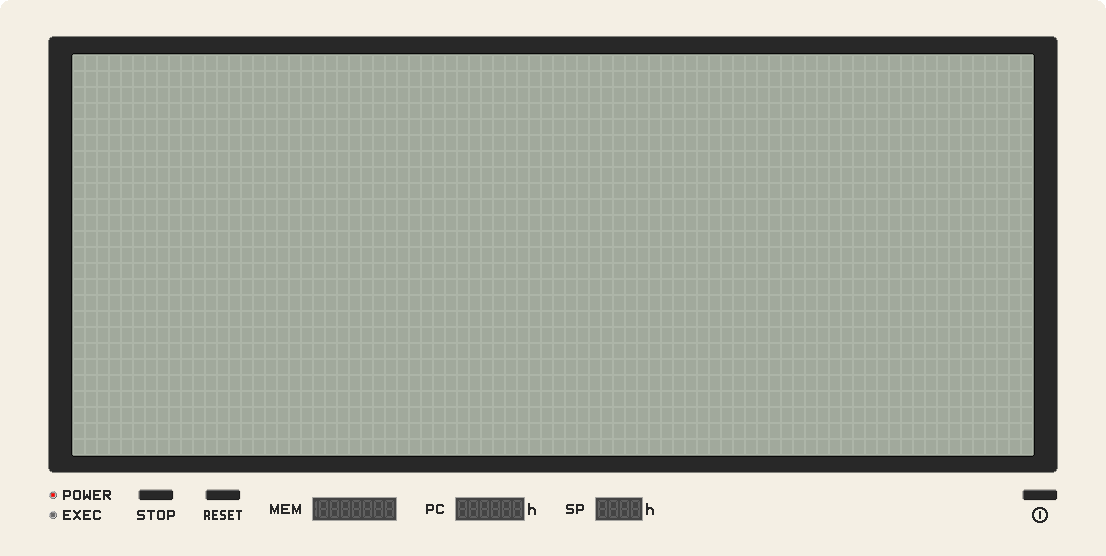
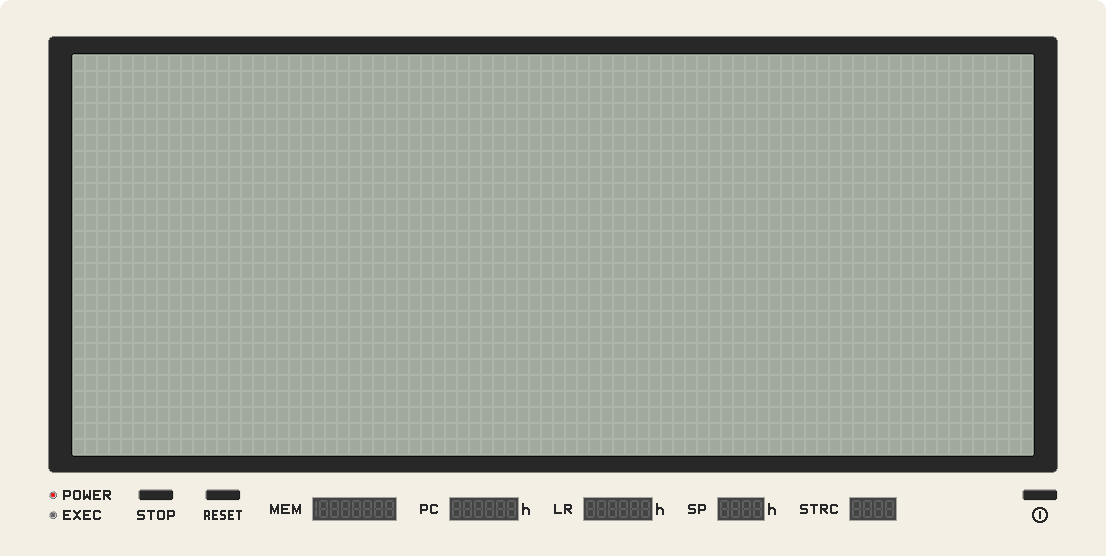
more register monitors

Changed region(s): [[0.5226, 0.8867, 0.7071, 0.9478], [0.3689, 0.8867, 0.4919, 0.9478], [0.7378, 0.8867, 0.83, 0.9478]]

diff --git a/src/net/torvald/terrarum/virtualcomputer/terranvmadapter/TextOnly.kt b/src/net/torvald/terrarum/virtualcomputer/terranvmadapter/TextOnly.kt
@@ -33,7 +33,7 @@ class TextOnly : Game() {
 
 
     override fun create() {
-        val vmDelay = 10
+        val vmDelay = 50
 
         background = Texture(Gdx.files.internal("assets/8025_textonly.png"))
 
@@ -96,9 +96,13 @@ jmp @loop;
             sevensegFont.draw(batch, vm.memory.size.toString().padStart(8, ' '), 307f, height - 18 - 500f)
             // -> program counter
             batch.color = Color(0xff9a4bff.toInt())
-            sevensegFont.draw(batch, vm.pc.toString(16).padStart(6, ' '), 457f, height - 18 - 500f)
+            sevensegFont.draw(batch, vm.pc.toString(16).padStart(6, ' '), 451f, height - 18 - 500f)
+            // -> link register
+            sevensegFont.draw(batch, vm.lr.toString(16).padStart(6, ' '), 585f, height - 18 - 500f)
             // -> stack pointer
-            sevensegFont.draw(batch, vm.sp.toString(16).padStart(4, ' '), 597f, height - 18 - 500f)
+            sevensegFont.draw(batch, vm.sp.toString(16).padStart(4, ' '), 719f, height - 18 - 500f)
+            // -> string counter
+            sevensegFont.draw(batch, vm.strCntr.toString().padStart(4, ' '), 851f, height - 18 - 500f)
         }
 
 
